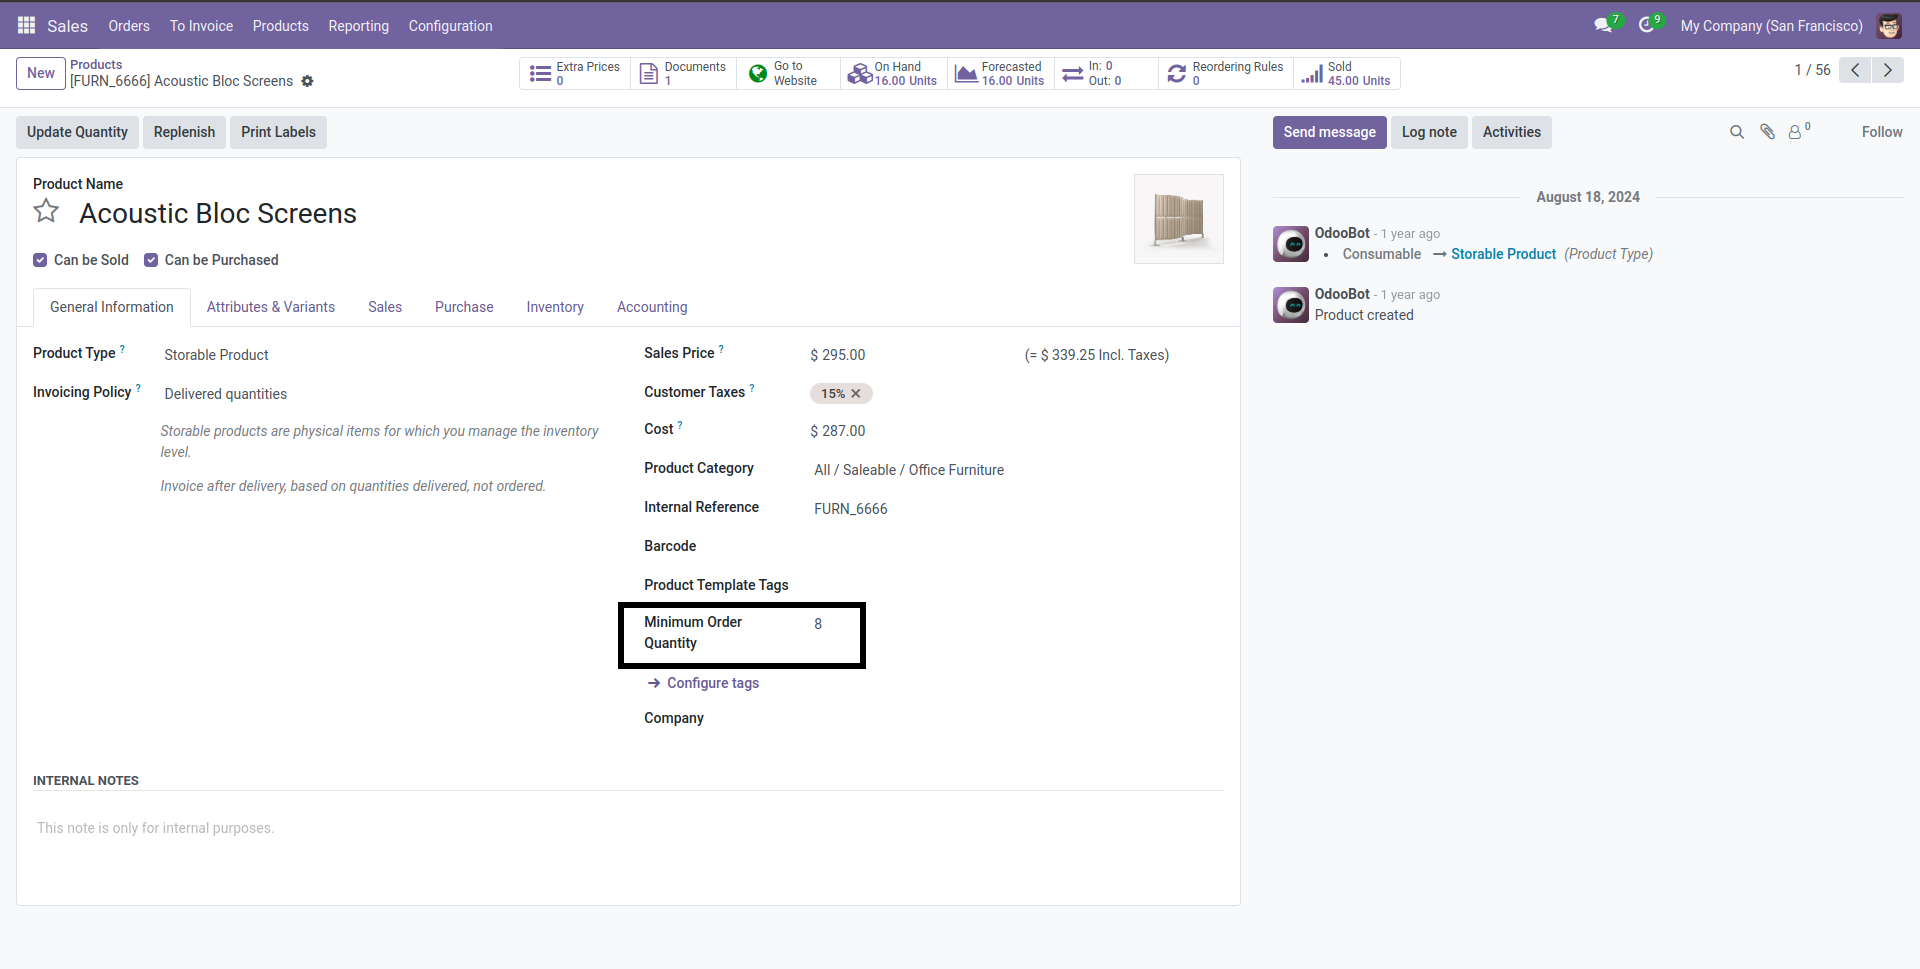
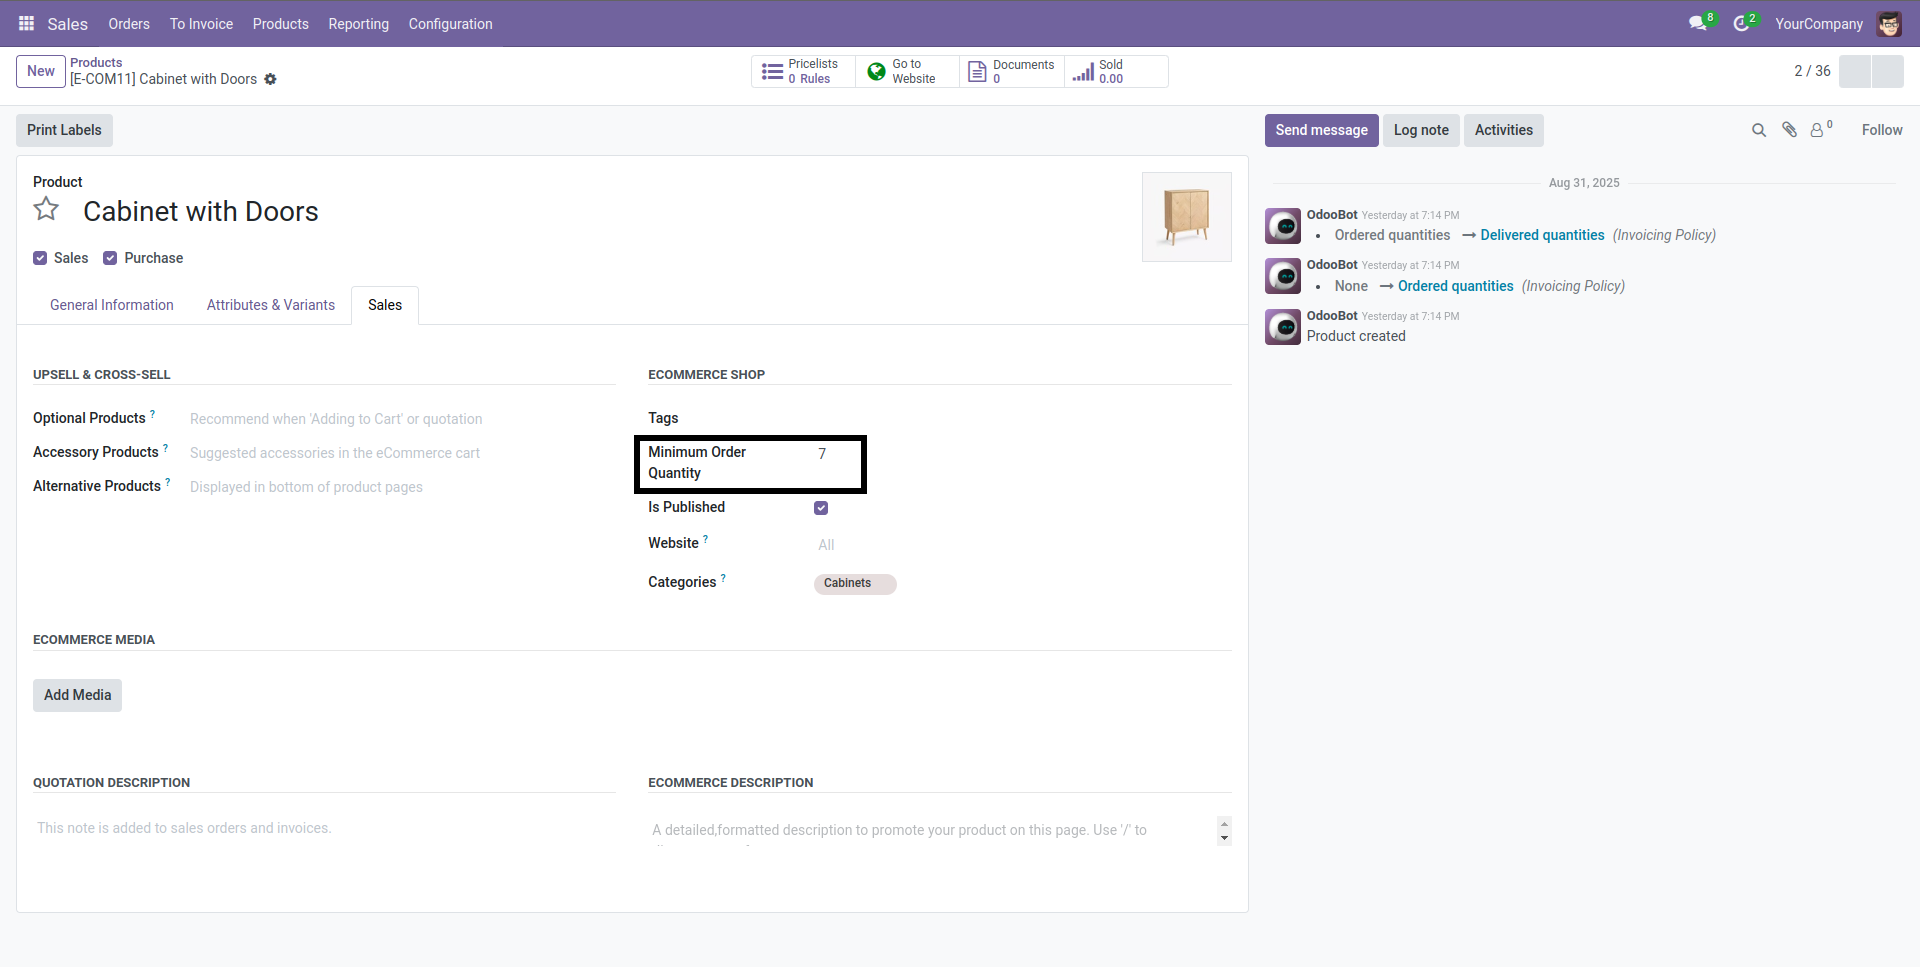
0qty & image readme

diff --git a/product_moq/static/src/js/moq_cart.js b/product_moq/static/src/js/moq_cart.js
@@ -16,11 +16,11 @@ publicWidget.registry.WebsiteSale.include({
         let qty = parseInt($input.val(), 10) || 0;
         const minQty = parseInt($input.data('minimum-qty'), 10) || 1;
 
-        if (qty < minQty) {
+        // Allow quantity 0 (product removal) without MOQ validation
+        if (qty > 0 && qty < minQty) {
             qty = minQty;
             $input.val(minQty);
 
-            // Use browser's native alert for simplicity in Odoo 18
             alert(_t(`You cannot order less than ${minQty} units of this product.`));
         }
     },

diff --git a/README.md b/README.md
@@ -11,7 +11,7 @@ To set a minimum order quantity, open the product form:
 
 - Go to **Sales → Products → Products**
 - Open a product
-- You will see the field **Minimum Order Quantity** under *General Information*
+- You will see the field **Minimum Order Quantity** under *Sales* *Ecommerce Shop* group.
 
 ![Minimum Order Quantity on Product Form](product_moq/static/description/product_moq.png)
 
@@ -37,3 +37,8 @@ On the website, when viewing a product, the configured minimum order quantity wi
 For example: *"Minimum order quantity: 8"*
 
 ![Minimum Order Quantity on Website Shop](product_moq/static/description/moq_website.png)
+
+## Cart Quantity Restriction
+
+This image demonstrates that in the cart, the user cannot choose a quantity below the Minimum Order Quantity (MOQ).
+![Minimum Order Quantity on Website Shop](product_moq/static/description/cart_moq.png)
